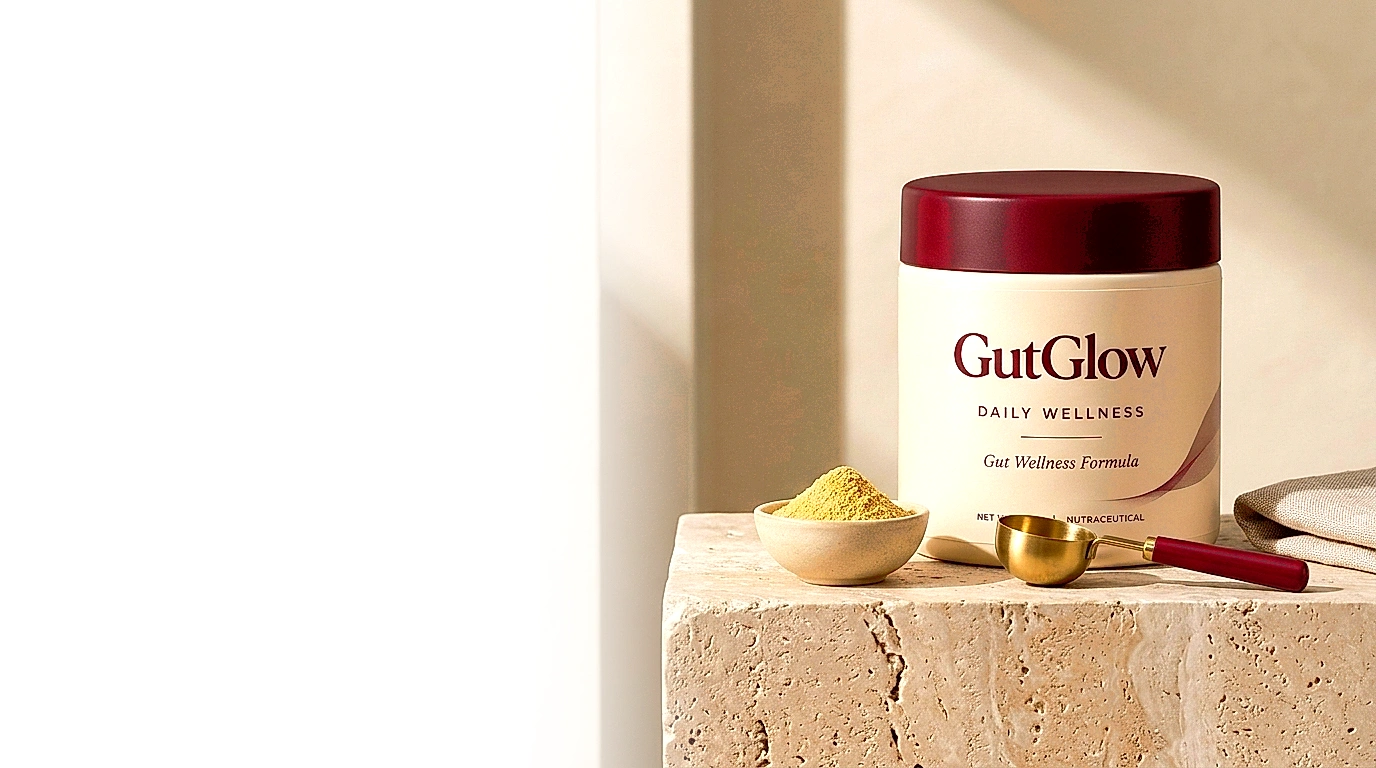
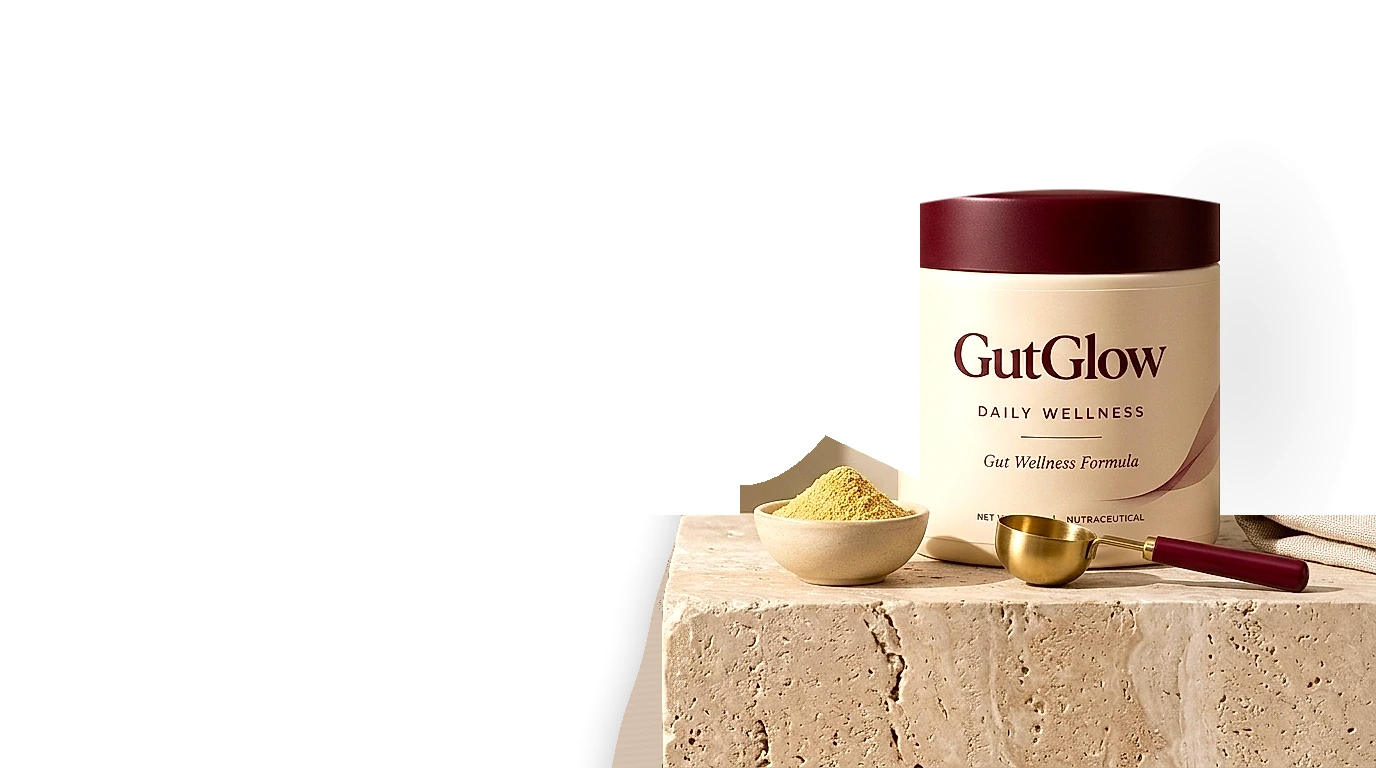
feat(hero): luxury architectural limestone countertop photography for desktop and mobile

diff --git a/scripts/create_luxury_hero.js b/scripts/create_luxury_hero.js
@@ -1,0 +1,234 @@
+const sharp = require("sharp");
+const path = require("path");
+
+async function createLuxuryHero() {
+  const src = "/Users/user/.gemini/antigravity/brain/7e9bb650-22f7-4662-aae5-1956d6d266ed/gutglow_hero_desktop_clean_1794232941148.jpg";
+
+  // Load high-resolution source (1376 x 768)
+  const { data: rawData, info: rawInfo } = await sharp(src)
+    .modulate({ brightness: 1.04, saturation: 1.25 })
+    .linear(1.06, -4)
+    .sharpen({ sigma: 1.0, m1: 1.0, m2: 2.0 })
+    .raw()
+    .toBuffer({ resolveWithObject: true });
+
+  const w = rawInfo.width;
+  const h = rawInfo.height;
+  console.log("Source dimensions:", w, h);
+
+  // Geometric coordinates in source:
+  const capCenterX = 1069.5;
+  const capRadiusX = 149.5;
+  const capMinY = 188;
+  const jarBaseY = 539;
+
+  function getCapTop(x) {
+    const rx = (x - capCenterX) / capRadiusX;
+    if (Math.abs(rx) > 1.02) return 999;
+    return capMinY + rx * rx * 14;
+  }
+
+  function getBowlTop(x) {
+    if (x < 740 || x > 920) return 999;
+    if (x <= 825) {
+      const t = (x - 740) / (825 - 740);
+      return 485 - t * t * 50;
+    }
+    const t = (x - 825) / (920 - 825);
+    return 435 + t * 45;
+  }
+
+  // Countertop architectural front-left edge:
+  // Starts near x=680, y=520 (just left of bowl), slopes gently down to x=610, y=768
+  function getCountertopLeftEdge(y) {
+    if (y < 515) return 9999;
+    const t = (y - 515) / (h - 515);
+    return 680 - t * 70 + Math.sin(y * 0.05) * 1.5;
+  }
+
+  // =========================================================================
+  // 1. BUILD DESKTOP HERO PHOTOGRAPH (1376 x 768)
+  // Countertop extends to right edge (x=1376) and bottom edge (y=768)
+  // Background above countertop is pure white architectural studio with soft shadow
+  // =========================================================================
+  const desktopRGB = Buffer.alloc(w * h * 3);
+
+  for (let y = 0; y < h; y++) {
+    for (let x = 0; x < w; x++) {
+      const idx = (y * w + x) * 3;
+
+      const capTop = getCapTop(x);
+      const bowlTop = getBowlTop(x);
+      const slabL = getCountertopLeftEdge(y);
+
+      // Is this pixel part of the jar?
+      const inJarCap = Math.abs(x - capCenterX) <= capRadiusX && y >= capTop && y <= capMinY + 140;
+      const inJarBody = Math.abs(x - capCenterX) <= capRadiusX && y > capMinY + 140 && y <= jarBaseY;
+      const inJar = inJarCap || inJarBody;
+
+      // Is this pixel part of the bowl?
+      const inBowl = x >= 740 && x <= 920 && y >= bowlTop && y <= 555;
+
+      // Is this pixel part of the limestone countertop?
+      // Countertop extends from slabL all the way to w (right edge) and h (bottom edge)
+      const inCountertop = y >= 515 && x >= slabL;
+
+      // Is this inside the physical product arrangement?
+      const isForeground = inJar || inBowl || inCountertop;
+
+      if (isForeground) {
+        let r = rawData[idx];
+        let g = rawData[idx + 1];
+        let b = rawData[idx + 2];
+
+        // Smooth out any dark holes in the front limestone face (near slabL)
+        if (inCountertop && x < slabL + 50 && y > 530) {
+          const lum = 0.299 * r + 0.587 * g + 0.114 * b;
+          if (lum < 130) {
+            const grain = ((Math.sin(x * 14.1 + y * 8.3) + Math.cos(x * 6.2 - y * 13.5)) * 0.5) * 5;
+            r = Math.round(212 + grain);
+            g = Math.round(193 + grain);
+            b = Math.round(175 + grain);
+          }
+        }
+
+        // Anti-aliasing at the top rim of cap and bowl against white studio background
+        if (inJarCap && y - capTop < 2.0) {
+          const edgeAlpha = Math.max(0, (y - capTop) / 2.0);
+          r = Math.round(r * edgeAlpha + 255 * (1 - edgeAlpha));
+          g = Math.round(g * edgeAlpha + 255 * (1 - edgeAlpha));
+          b = Math.round(b * edgeAlpha + 255 * (1 - edgeAlpha));
+        }
+
+        desktopRGB[idx] = r;
+        desktopRGB[idx + 1] = g;
+        desktopRGB[idx + 2] = b;
+      } else {
+        // Background: White architectural studio wall & floor
+        let bgR = 255;
+        let bgG = 255;
+        let bgB = 255;
+
+        // 1. Soft architectural daylight shadow cast by the jar on the white wall behind it
+        if (y < 535 && x > 1150 && x < 1370) {
+          const dx = (x - 1240) / 75.0;
+          const dy = (y - 360) / 140.0;
+          const dist2 = dx * dx + dy * dy;
+          if (dist2 < 2.5) {
+            const shadowIntensity = Math.exp(-dist2 * 0.8) * 0.11; // subtle 11% max shadow
+            bgR = Math.round(255 * (1 - shadowIntensity) + 65 * shadowIntensity);
+            bgG = Math.round(255 * (1 - shadowIntensity) + 58 * shadowIntensity);
+            bgB = Math.round(255 * (1 - shadowIntensity) + 54 * shadowIntensity);
+          }
+        }
+
+        // 2. Soft architectural ground shadow beneath the left edge of the countertop
+        if (y >= 515 && x < slabL && x >= slabL - 45) {
+          const dSlab = slabL - x;
+          const tShadow = Math.max(0, 1 - dSlab / 45.0);
+          const shadowIntensity = Math.pow(tShadow, 2.0) * 0.16; // subtle 16% max contact shadow
+          bgR = Math.round(255 * (1 - shadowIntensity) + 65 * shadowIntensity);
+          bgG = Math.round(255 * (1 - shadowIntensity) + 58 * shadowIntensity);
+          bgB = Math.round(255 * (1 - shadowIntensity) + 54 * shadowIntensity);
+        }
+
+        // 3. Ensure left 50% (x < 550) smoothly fades to 100% pure white #FFFFFF
+        if (x < 550) {
+          bgR = 255;
+          bgG = 255;
+          bgB = 255;
+        }
+
+        desktopRGB[idx] = bgR;
+        desktopRGB[idx + 1] = bgG;
+        desktopRGB[idx + 2] = bgB;
+      }
+    }
+  }
+
+  // Save desktop WebP (optimized high quality)
+  await sharp(desktopRGB, { raw: { width: w, height: h, channels: 3 } })
+    .webp({ quality: 92, effort: 6 })
+    .toFile("public/images/gutglow-hero-desktop.webp");
+  console.log("Desktop hero saved: public/images/gutglow-hero-desktop.webp (", w, "x", h, ")");
+
+  // Also save PNG version for backwards compatibility
+  await sharp(desktopRGB, { raw: { width: w, height: h, channels: 3 } })
+    .png({ compressionLevel: 8 })
+    .toFile("public/images/gutglow-hero-desktop.png");
+
+  // Save preview for inspection
+  await sharp(desktopRGB, { raw: { width: w, height: h, channels: 3 } })
+    .jpeg({ quality: 92 })
+    .toFile("/Users/user/.gemini/antigravity/brain/7e9bb650-22f7-4662-aae5-1956d6d266ed/luxury_desktop_preview.jpg");
+  console.log("Desktop preview saved to luxury_desktop_preview.jpg");
+
+  // =========================================================================
+  // 2. BUILD MOBILE HERO PHOTOGRAPH (Dedicated 4:5 Portrait Composition)
+  // Closer framing, centered jar, grounded countertop across bottom
+  // =========================================================================
+  // In source (1376 x 768), jar center is at x=1070.
+  // We extract a dedicated crop centered on the jar, bowl, spoon, and countertop:
+  // For 4:5 aspect ratio: width ≈ 680, height = 850 (or width 600, height 750)
+  // Let us crop from x = 680 to 1376 (width = 696), y = 140 to 768 (height = 628).
+  // Then place on a 4:5 portrait canvas (800 x 1000) with pure white top space
+  const mobCanvasW = 800;
+  const mobCanvasH = 1000;
+
+  // We resize the desktop photograph to fit mobile portrait width with closer framing:
+  // Product crop: left=650, top=140, width=726, height=628
+  const productCrop = await sharp(desktopRGB, { raw: { width: w, height: h, channels: 3 } })
+    .extract({ left: 650, top: 140, width: 726, height: 628 })
+    .resize(800, 692, { fit: "cover" })
+    .raw()
+    .toBuffer({ resolveWithObject: true });
+
+  const mobRGB = Buffer.alloc(mobCanvasW * mobCanvasH * 3);
+  // Fill top (y < 308) with pure white #FFFFFF
+  for (let i = 0; i < mobCanvasW * 308 * 3; i++) {
+    mobRGB[i] = 255;
+  }
+  // Copy product crop to bottom (y = 308..1000)
+  const cropData = productCrop.data;
+  for (let y = 0; y < 692; y++) {
+    for (let x = 0; x < mobCanvasW; x++) {
+      const srcIdx = (y * mobCanvasW + x) * 3;
+      const dstIdx = ((y + 308) * mobCanvasW + x) * 3;
+
+      let r = cropData[srcIdx];
+      let g = cropData[srcIdx + 1];
+      let b = cropData[srcIdx + 2];
+
+      // Smooth top blend near y=308
+      if (y < 30) {
+        const blend = y / 30.0;
+        r = Math.round(r * blend + 255 * (1 - blend));
+        g = Math.round(g * blend + 255 * (1 - blend));
+        b = Math.round(b * blend + 255 * (1 - blend));
+      }
+
+      mobRGB[dstIdx] = r;
+      mobRGB[dstIdx + 1] = g;
+      mobRGB[dstIdx + 2] = b;
+    }
+  }
+
+  // Save mobile WebP
+  await sharp(mobRGB, { raw: { width: mobCanvasW, height: mobCanvasH, channels: 3 } })
+    .webp({ quality: 92, effort: 6 })
+    .toFile("public/images/gutglow-hero-mobile.webp");
+  console.log("Mobile hero saved: public/images/gutglow-hero-mobile.webp (", mobCanvasW, "x", mobCanvasH, ")");
+
+  // Also save PNG version
+  await sharp(mobRGB, { raw: { width: mobCanvasW, height: mobCanvasH, channels: 3 } })
+    .png({ compressionLevel: 8 })
+    .toFile("public/images/gutglow-hero-mobile.png");
+
+  // Save preview for inspection
+  await sharp(mobRGB, { raw: { width: mobCanvasW, height: mobCanvasH, channels: 3 } })
+    .jpeg({ quality: 92 })
+    .toFile("/Users/user/.gemini/antigravity/brain/7e9bb650-22f7-4662-aae5-1956d6d266ed/luxury_mobile_preview.jpg");
+  console.log("Mobile preview saved to luxury_mobile_preview.jpg");
+}
+
+createLuxuryHero().catch(console.error);

diff --git a/components/home/HeroSection.tsx b/components/home/HeroSection.tsx
@@ -81,20 +81,20 @@ export function HeroSection() {
               </div>
             </motion.div>
 
-            {/* Right Column: Physical Product Grounded on Side (~55%) */}
+            {/* Right Column: Physical Product on Luxury Architectural Countertop (~55%) */}
             <motion.div
               initial={fadeIn.initial}
               animate={fadeIn.animate}
               transition={fadeIn.transition}
               className="col-span-7 lg:col-span-7 relative flex items-end justify-end self-end h-full"
             >
-              <div className="relative w-full max-w-[780px] aspect-[900/540] self-end">
+              <div className="relative w-full max-w-[840px] aspect-[1376/768] self-end">
                 <Image
-                  src="/images/gutglow-hero-desktop.png"
-                  alt="GutGlow Daily Wellness Formula jar on natural limestone pedestal"
+                  src="/images/gutglow-hero-desktop.webp"
+                  alt="GutGlow Daily Wellness Formula jar on luxury architectural limestone countertop"
                   fill
                   priority
-                  sizes="(max-width: 1024px) 50vw, 780px"
+                  sizes="(max-width: 1024px) 50vw, 840px"
                   className="object-contain object-bottom object-right"
                 />
               </div>
@@ -114,13 +114,13 @@ export function HeroSection() {
           className="flex flex-col space-y-5"
         >
           {/* 1. PRODUCT COMPOSITION (FIRST VISUAL ELEMENT ON MOBILE ~40-45%) */}
-          <div className="relative w-full max-w-[460px] mx-auto aspect-[720/500] select-none">
+          <div className="relative w-full max-w-[420px] mx-auto aspect-[4/5] select-none">
             <Image
-              src="/images/gutglow-hero-mobile.png"
-              alt="GutGlow Daily Wellness Formula jar on natural limestone pedestal"
+              src="/images/gutglow-hero-mobile.webp"
+              alt="GutGlow Daily Wellness Formula jar on luxury architectural limestone countertop"
               fill
               priority
-              sizes="(max-width: 767px) 100vw, 460px"
+              sizes="(max-width: 767px) 100vw, 420px"
               className="object-contain object-bottom"
             />
           </div>
